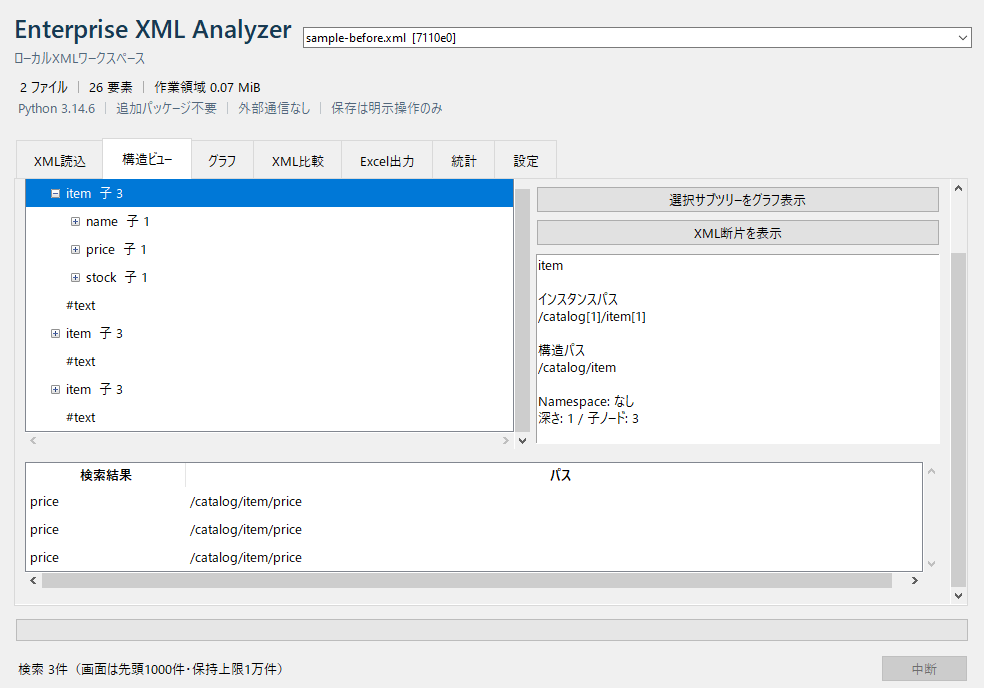
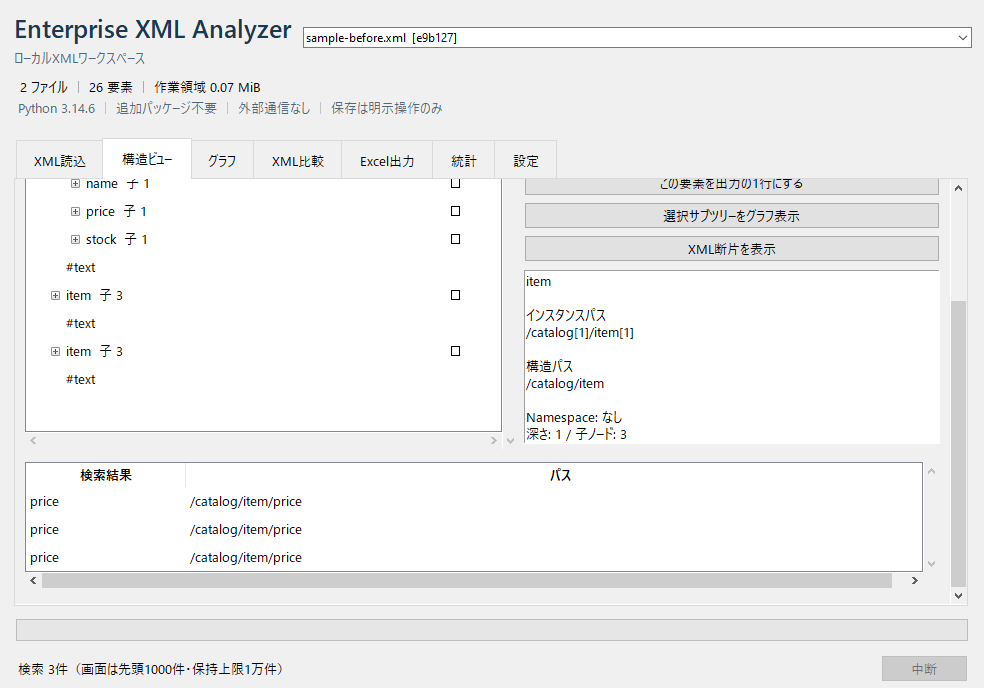
Document save overview and checked header ranges with Windows screenshots

Changed region(s): [[0.0, 0.2442, 1.0, 0.641], [0.4268, 0.0305, 0.4573, 0.061]]

diff --git a/docs/python-user-guide/procedure-guide.html b/docs/python-user-guide/procedure-guide.html
@@ -15,7 +15,7 @@
   <a class="skip-link" href="#main-content">本文へ移動</a>
   <button id="toc-toggle" class="toc-toggle" type="button" aria-controls="sidebar" aria-expanded="false">☰ 目次</button>
   <aside id="sidebar" class="sidebar" aria-label="目次">
-    <div class="sidebar-header"><p class="eyebrow">Windows Desktop · v2.4</p><p class="sidebar-title">Enterprise XML<br>Analyzer</p><p class="sidebar-subtitle">スクリーンショット付き操作手順書</p></div>
+    <div class="sidebar-header"><p class="eyebrow">Windows Desktop · v2.5</p><p class="sidebar-title">Enterprise XML<br>Analyzer</p><p class="sidebar-subtitle">スクリーンショット付き操作手順書</p></div>
     <nav><ol class="toc-list">
       <li><a href="#overview">01 目的と対象</a></li><li><a href="#prepare">02 展開したフォルダの確認</a></li><li><a href="#workflow">03 全体の流れ・練習用XML</a></li><li><a href="#launch">04 アプリを起動する</a></li><li><a href="#load">05 XMLを読み込む</a></li><li><a href="#tree">06 構造・検索を確認する</a></li><li><a href="#graph">07 グラフで見る</a></li><li><a href="#compare">08 2つのXMLを比較する</a></li><li><a href="#export">09 Excelへ出力する</a></li><li><a href="#save">10 設定と作業を保存・終了する</a></li><li><a href="#verification">11 完了確認</a></li><li><a href="#troubleshooting">12 困ったとき</a></li>
     </ol></nav>
@@ -23,7 +23,7 @@
   </aside>
   <div id="sidebar-overlay" class="sidebar-overlay" aria-hidden="true"></div>
   <main id="main-content" class="main-content">
-    <header class="hero"><div class="hero-content"><p class="eyebrow">User Guide · Python 3.14.6 Bundled</p><h1>Enterprise XML Analyzer<br><span>Windows版 操作手順書</span></h1><p class="hero-lead">ZIPを展開したところから、XMLの確認・比較・Excel保存まで。画面と同じ練習用データを使って、一通りの操作を試せます。</p><div class="hero-badges"><span>対象: Windows x64配布版</span><span>Pythonの追加インストール不要</span><span>更新: 2026/10/28</span></div></div></header>
+    <header class="hero"><div class="hero-content"><p class="eyebrow">User Guide · Python 3.14.6 Bundled</p><h1>Enterprise XML Analyzer<br><span>Windows版 操作手順書</span></h1><p class="hero-lead">ZIPを展開したところから、XMLの確認・比較・Excel保存まで。画面と同じ練習用データを使って、一通りの操作を試せます。</p><div class="hero-badges"><span>対象: Windows x64配布版</span><span>Pythonの追加インストール不要</span><span>更新: 2026/10/29</span></div></div></header>
 
     <section id="overview" class="content-section"><div class="section-heading"><span class="section-number">01</span><div><p class="section-kicker">Overview</p><h2>目的と対象</h2></div></div>
       <p>このアプリは、XMLファイルの中身を階層やグラフで確認し、2つのXMLの違いを調べ、必要な項目をExcel・CSVへ取り出すためのデスクトップアプリです。XML原本を直接編集する機能はありません。</p>
@@ -89,6 +89,8 @@
 
     <section id="export" class="content-section"><div class="section-heading"><span class="section-number">09</span><div><p class="section-kicker">Excel Export</p><h2>すべての要素をExcelへ出力する</h2></div></div>
       <h3 id="simple-export">簡単出力：外側のノードを1行にする</h3>
+      <p>v2.5では、プレビュー時に「保存前チェック」も表示します。「作成シート」で全シートの行数・列数、「1行の単位」で実際の要素パスと件数、「ヘッダーの適用範囲」でXML別の適用先を確認してください。未確認の状態や設定変更後に保存を押した場合は先にこの結果を表示します。内容を見てから、もう一度「全要素をExcel保存」を押して保存先を選びます。</p>
+      <p class="small-note">シートの行数は見出し行を除きます。列・行のシート分割と、長い値・表示項目の継続行も反映します。横持ちの項目数には元ファイル・ID等3列を含まず、各シートの列数には含みます。縦持ちの中身は11列です。値のプレビューは先頭だけですが、保存前チェックの件数は全件から集計します。</p>
       <ol class="numbered-steps"><li><div><strong>XMLを読み込み、「Excel出力」を開きます。</strong><p>最上部の「簡単出力モード（すべての要素・属性）」を使います。読み込み済みの全XMLが対象です。詳細出力の列・条件・XML選択では絞りません。</p></div></li><li><div><strong>「表の形式」で「横持ち」または「縦持ち」を選びます。</strong><p>横持ちでは、文書ルート直下の最も外側にあるデータ要素が1行です。指定したヘッダー範囲は除外します。縦持ちはノード・項目名・値を行で並べる一覧です。</p></div></li><li><div><strong>必要なら、下の手順でヘッダー範囲を指定します。</strong><p>ヘッダーはロット情報・測定条件などのXML内の情報です。指定要素と配下全体をヘッダー専用シートへ分離し、IDでデータと対応づけます。指定しなければ、各外側要素をデータとして出力します。</p></div></li><li><div><strong>「全要素プレビュー」で確認し、「全要素をExcel保存」を押します。</strong><p>「表示する内容」で中身・ヘッダー情報・紐づけ・共通データを切り替えられます。表示は先頭20行・30列・各80文字までですが、保存は全件です。画面下部の完了表示を確認し、保存先のExcelを開きます。</p></div></li></ol>
       <div class="table-wrap"><table><caption>横持ちの1行の単位</caption><thead><tr><th>XMLの形</th><th>1行になる範囲</th></tr></thead><tbody><tr><td><code>root → record、record</code></td><td>recordごとに計2行。配下の項目が列になります。</td></tr><tr><td><code>root → header、record、record</code> でheaderをヘッダー指定</td><td>recordごとに計2行。headerは専用シートへ分離します。</td></tr><tr><td><code>root → data → record、record</code></td><td>最も外側のdataで1行。内側のrecordは番号付きの列に展開します。</td></tr><tr><td>子要素を持たないroot</td><td>root自身で1行。</td></tr></tbody></table></div>
       <p>商品練習用XML2ファイルは、ヘッダー指定なしで横持ち6行・5項目（元ファイル等の列を除く）、縦持ち30行です。文書ルートの直接テキスト2件は共通データに保存し、全26要素・6属性を保持します。</p>
@@ -97,10 +99,16 @@
       <h3 id="header-export">ヘッダー範囲を指定し、データと紐づける</h3>
       <p>次の練習XMLは共通ヘッダー1件と、データA・Bそれぞれのヘッダーを持ちます。商品練習から切り替える場合は、必要な作業を保存したうえで、「設定」→「すべての作業データと設定を削除」で読み込み済みXMLを消し、このXMLを1つだけ読み込んでください。</p>
       <div class="download-row"><a class="download-link" href="samples/sample-with-headers.xml" download="sample-with-headers.xml">ヘッダー付き練習XMLを保存</a></div>
-      <ol class="numbered-steps"><li><div><strong>「ヘッダー範囲」へ、次の2行を入力します。</strong><p>1行につき1つの要素パスです。指定した要素とその配下全体を対象にします。構造ビューで対象を選んでから「構造ビューの選択要素を追加」でも入力できます。複数の範囲を指定でき、重なる範囲は外側にまとめます。</p></div></li></ol>
+      <figure class="screenshot"><button class="shot-zoom" type="button" aria-label="構造ツリーのヘッダーチェックを拡大"><img src="images/20-header-tree.png" alt="構造ツリーのヘッダー欄で共通headerとrecord内headerをチェックし、指定要素は青、配下は薄い青と配下の文字で区別した画面。" width="984" height="688" loading="lazy"></button><figcaption>ツリーで選択｜チェックは同じ要素パスの全出現に適用します。右側の「ヘッダーの適用範囲を確認」で出力画面へ戻れます。</figcaption></figure>
+      <ol class="numbered-steps"><li><div><strong>「構造ツリーでヘッダーを選択」を押し、headerのチェック欄をクリックします。</strong><p>共通の <code>/root/header</code> と、record内の <code>/root/record/header</code> をチェックします。要素を選んでSpace、または右側のチェックボックスでも切り替えられます。同じ要素パスの全出現に適用するため、record内のheaderを1つ選ぶと、データA・Bの両方が対象になります。指定要素は青、配下は薄い青と「配下」の文字で表示されます。後から展開した要素にも反映します。</p><p>「ヘッダーの適用範囲を確認」で出力画面へ戻ります。パスを入力する場合は、従来どおり次の2行を「ヘッダー範囲」に指定できます。複数の範囲が重なった場合は外側にまとめます。親の指定に含まれる子だけを除外することはできないため、範囲を外す場合は親のチェックを解除します。</p></div></li></ol>
       <div class="code-block"><pre><code>/root/header
 /root/record/header</code></pre></div>
       <figure class="screenshot"><button class="shot-zoom" type="button" aria-label="ヘッダー範囲の指定画面を拡大"><img src="images/15-header-ranges.png" alt="ヘッダー範囲にroot/headerとroot/record/headerの2行を指定した画面。設定の保存と読込もできる。" width="984" height="688" loading="lazy"></button><figcaption>ヘッダー範囲｜要素パスを指定します。名前空間付きXMLでは構造ビューの選択要素から追加すると、正しいパスを入力できます。</figcaption></figure>
+      <div class="table-wrap"><table><caption>保存前チェックの切替欄で確認する内容</caption><thead><tr><th>表示</th><th>この練習での確認</th></tr></thead><tbody><tr><td>作成シート</td><td>横持ちは9シート、縦持ちは8シート。中身・ヘッダー・紐づけ・共通データ等の各行数と列数を確認します。</td></tr><tr><td>1行の単位</td><td><code>/root/record</code> が2件。横持ちでは2行となり、縦持ちでは同じ基準でデータIDを付け、配下の値を8行へ展開します。</td></tr><tr><td>ヘッダーの適用範囲</td><td>共通headerは該当1件・適用データ2件、record内headerは該当2件・適用データ2件です。対応数はそれぞれ2行、合計4行です。</td></tr></tbody></table></div>
+      <p>「該当件数」は定義したパスに一致する要素数、「分離ヘッダー件数」は重複範囲を統合したあとの件数です。同じデータに複数ヘッダーが属すると、適用データ件数より対応数が多くなります。「親範囲に統合」は二重保存を防いだ指定、「該当なし」はそのXMLには対象がない指定です。全XMLで見つからない範囲がある場合は、エラーを確認して指定を修正してください。</p>
+      <figure class="screenshot"><button class="shot-zoom" type="button" aria-label="保存前チェックのシート一覧を拡大"><img src="images/21-save-overview.png" alt="保存前チェックでデータ2件、中身2行、項目4列とID等3列、作成9シートを表示し、シートごとの行数と列数を並べた画面。" width="984" height="688" loading="lazy"></button><figcaption>作成シート｜保存前に全シートの名前・データ行数・列数を確認できます。表の縦スクロールで残りのシートも表示します。</figcaption></figure>
+      <figure class="screenshot"><button class="shot-zoom" type="button" aria-label="保存前チェックの1行の単位を拡大"><img src="images/23-record-unit.png" alt="1行の単位の一覧に元XML、root/recordの基準パス、データ件数2件を表示した画面。" width="984" height="688" loading="lazy"></button><figcaption>1行の単位｜実際の要素パスと件数を確認します。横持ちではrecord1件が1行です。</figcaption></figure>
+      <figure class="screenshot"><button class="shot-zoom" type="button" aria-label="XMLごとのヘッダー適用範囲を拡大"><img src="images/22-header-coverage.png" alt="共通headerは該当1件、record内headerは該当2件で、それぞれ適用データ2件と対応数2を表示した画面。" width="984" height="688" loading="lazy"></button><figcaption>ヘッダーの適用範囲｜XMLごとの該当・分離件数、共通／ノード内の適用範囲、適用データ件数と対応数を確認します。</figcaption></figure>
       <ol class="numbered-steps" start="2"><li><div><strong>表の形式を選び、「全要素プレビュー」を押します。</strong><p>このXMLはデータ2件、ヘッダー3件です。横持ちは2行・4項目、縦持ちは8行です。ヘッダーは両形式とも7項目行の縦持ち一覧として専用シートに保存します。</p></div></li><li><div><strong>「表示する内容」を切り替えて確認します。</strong><p>「ヘッダー情報」でロットLOT-001や単位Cを確認し、「紐づけ」で4行の対応を確認します。画面のIDは短縮表示ですが、Excelには完全なIDを保存します。</p></div></li><li><div><strong>「全要素をExcel保存」で保存します。</strong><p>「中身のデータ」「ヘッダー」「紐づけ」などのシートを確認します。「簡単出力設定を保存」で形式と範囲をJSONへ保存でき、次回は「簡単出力設定を読込」で再利用できます。設定JSONにXMLの値は含みません。</p></div></li></ol>
       <figure class="screenshot"><button class="shot-zoom" type="button" aria-label="ヘッダーを分離した横持ちデータを拡大"><img src="images/16-header-wide.png" alt="ヘッダーを除いた横持ちのrecord2件。ID、温度、圧力などの4項目を列に展開する。" width="984" height="688" loading="lazy"></button><figcaption>中身のデータ・横持ち｜データAとBの2行に、温度20／25、圧力5／6などを保存します。</figcaption></figure>
       <figure class="screenshot"><button class="shot-zoom" type="button" aria-label="ヘッダーを分離した縦持ちデータを拡大"><img src="images/19-header-long.png" alt="ヘッダーを除いた縦持ちデータのプレビュー。record2件の値を8行にする。" width="984" height="688" loading="lazy"></button><figcaption>中身のデータ・縦持ち｜同じデータIDで、ノード内の項目をまとめて扱えます。</figcaption></figure>
@@ -157,13 +165,14 @@
         <details><summary>ヘッダー範囲が見つからない／HEADER_PATH・HEADER_NOT_FOUND</summary><div><p>要素の絶対パスを1行ずつ指定します。例は <code>/root/header</code> です。<code>[1]</code>、属性、ワイルドカードは指定しません。名前空間付きXMLは構造ビューで要素を選び「構造ビューの選択要素を追加」を使ってください。範囲を変えたら再プレビューします。</p></div></details>
         <details><summary>列を編集したのに結果へ反映されない</summary><div><p>表の該当行を選んで編集し、「列へ反映」を押してから再度プレビューします。プレビューを実行する前の表示は自動更新されません。</p></div></details>
         <details><summary>「XLSX保存」など下のボタンが見えない</summary><div><p>各画面の右端の縦スクロールで下へ移動します。詳細出力の中には別の縦横スクロールもあります。画面幅が狭い場合は上部の「画面」で切り替えます。</p></div></details>
+        <details><summary>「全要素をExcel保存」を押しても保存先の画面が出ない</summary><div><p>初回や設定変更後は、先に保存前チェックを作成します。画面に表示された1行の単位・件数・作成シート・ヘッダーの適用先を確認して、もう一度「全要素をExcel保存」を押してください。処理中の場合は完了を待ちます。エラーが出た場合は、ヘッダー範囲の入力内容を確認してください。</p></div></details>
         <details><summary>保存できない／disk I/O error／処理が遅い</summary><div><p>空き容量、保存先への書き込み権限、出力ファイルをExcelで開いたままにしていないかを確認します。大きなXMLは一時作業領域も使用します。共有フォルダで失敗する場合は、許可されたローカルフォルダへの保存を試し、会社の担当者へ権限を確認してください。</p></div></details>
         <details><summary>全データ削除・終了に時間がかかる</summary><div><p>大量データではSQLiteの整理に時間がかかります。中断・終了操作を連打せず待ってください。100万要素後の削除で約1分かかった検証例があります。</p></div></details>
       </div>
       <div class="callout info"><div class="callout-icon" aria-hidden="true">i</div><div><h3>解決しない場合</h3><p>配布担当者へ、Windowsの種類、アプリの版、対象ファイル名、操作、表示メッセージを伝えてください。「設定」→「技術ログをJSON保存」も利用できます。XMLの実データや作業ファイルを送る場合は、送付先と内容を会社のルールに従って確認してください。</p></div></div>
       <p class="small-note">配布担当者向け: <a href="https://github.com/rsakamoto-0824/enterprise-xml-analyzer/actions">GitHubのビルド一覧</a>はアクセス権を持つ利用者のみ閲覧できます。Actionsの配布物は保存期限があるため、期限切れの場合は担当者へ再配布を依頼してください。</p>
     </section>
-    <footer class="page-footer"><p>Enterprise XML Analyzer · Windows版ユーザー手順書 · v2.4</p><p>更新: 2026/10/28 · 画面は架空の練習用データを使用</p></footer>
+    <footer class="page-footer"><p>Enterprise XML Analyzer · Windows版ユーザー手順書 · v2.5</p><p>更新: 2026/10/29 · 画面は架空の練習用データを使用</p></footer>
   </main>
   <button id="back-to-top" class="back-to-top" type="button" aria-label="ページ上部へ戻る"><span aria-hidden="true">↑</span> トップへ戻る</button>
   <dialog id="image-viewer" aria-labelledby="image-viewer-title"><div class="viewer-bar"><p id="image-viewer-title">画面の拡大表示</p><button id="close-viewer" type="button">閉じる（Esc）</button></div><img id="viewer-image" alt=""><p class="viewer-note">横幅が足りない場合は画像の下の横スクロールで確認できます。</p></dialog>

diff --git a/docs/python-test-report.md b/docs/python-test-report.md
@@ -151,3 +151,17 @@ Mac / CPython 3.14.6 / Tk 9.0.4で65件の自動検証を実行し、64件成功
 [Windows Server 2022 / CPython 3.14.6（cd22bfc）](https://github.com/rsakamoto-0824/enterprise-xml-analyzer/actions/runs/40681699386)で65件すべて、同梱EXE、1/10/100/500MiB、1001001要素、10万件学習表、新しいヘッダー付き出力が成功しました。20000データ・20001ヘッダーは横持ち5.24秒、縦持ち7.04秒で保存しました。XML読込3.29秒は別測定です。測定プロセス全体の累積Peak Working Setは65,224,704バイトで、出力単独のメモリ量ではありません。共有CIでの合成データ単回測定のため、実データの処理時間・上限を保証しません。記録は `validation/python-header-windows-performance.json` と `validation/python-header-windows-selftest.json` です。Windows実画面19枚を手順書へ反映しました。
 
 HTML手順書を1440×1000・1280×900のChromiumで表示し、19画像・目次12箇所・ヘッダー付きXMLの保存と元ファイル一致・画像拡大とEsc・横方向のはみ出しがないことを確認しました。HTML単体版も19画像と練習XMLを埋め込み、外部CSS・JavaScript・画像に依存せず表示できることを確認しています。
+
+## v2.5.0 保存前チェックとツリーのヘッダー選択
+
+2026年10月29日追加。保存前に、実際のデータ基準パス・件数・中身の行数・列数と全シートの名前・行数・列数を表示します。構造ツリーではヘッダーのチェック列・Space・右側のチェックボックスで範囲を切り替え、指定要素と配下を文字と色で区別します。XMLごとの一致数、統合後のヘッダー数、適用範囲、重複なしの適用データ件数と対応数を確認できます。外側ノード1件＝1行と、保存する値・シートの構成は維持します。
+
+Mac / CPython 3.14.6 / Tk 9.0.4で73件を実行し、72件成功・Windows専用ドロップ1件をスキップしました。追加テストでは実際のOOXMLから全シート名・行数・列数を読み、保存前チェックと一致することを確認しています。長い値・40000文字の名前空間・行分割・16401項目の列分割、ヘッダーだけのXML、重複範囲の統合、一部XMLにない範囲、複数ヘッダーが同じデータに適用される場合の件数を含みます。GUIではマウスのチェック欄、Spaceと同じ切替処理、展開後の色分け、名前空間、処理中の編集禁止、形式変更後の再確認、従来の640×480以上のリサイズ等を確認しました。同梱ランタイム向けの通信禁止自己検証も成功しました。
+
+代表例の横持ち9シート・縦持ち8シートを独立したopenpyxlで再読込し、保存前チェックの全シート名・行数・列数と一致しました。元XMLの全20値の多重集合、共通／ノード内ヘッダーの対応、先頭ゼロ・20桁ID・数式文字列・空白の保持も確認しています。ZIP・OOXML・リレーション・コンテンツタイプは正常で、数式・セルエラー・外部リンク・VBAは0件です。全17シートを1シート1ページの確認用PDFにして目視しました。これはExcel本体の印刷改ページの検証ではありません。記録は `validation/python-preview-export-validation.json` です。Microsoft Excel本体での再保存・再オープンと、会社のWindows 11 / Server 2019での受入確認は未実施です。
+
+Macで2万データ・20001ヘッダー・40000対応の保存前チェックを単回測定し、横持ち4.875秒、縦持ち5.925秒でした。横持ちは中身20000行・全シート合計100024行・9シート、縦持ちは中身40000行・合計120022行・8シートです。合成データの単回測定であり、実データやWindowsでの時間を保証しません。記録は `validation/python-preview-performance.json` です。
+
+[Windowsの全検証（ae43d3d）](https://github.com/rsakamoto-0824/enterprise-xml-analyzer/actions/runs/40834833995)で73件すべて、同梱EXEの通信禁止自己検証、1/10/100/500MiB・1001001要素・10万件学習表・2万件のヘッダー付き出力が成功しました。2万データ・20001ヘッダーの保存は横持ち5.553秒、縦持ち7.278秒でした。保存前チェックの時間とは別です。記録は `validation/python-preview-windows-performance.json` と `validation/python-preview-windows-selftest.json` です。[列幅を調整したWindows版（e971bb0）](https://github.com/rsakamoto-0824/enterprise-xml-analyzer/actions/runs/40836106370)でも全件と同梱EXEが成功しました。会社の実機とMicrosoft Excel本体での未検証範囲は上記のとおりです。
+
+[Windows実画面23枚（3c094e9）](https://github.com/rsakamoto-0824/enterprise-xml-analyzer/actions/runs/40851136477)を手順書へ反映しました。PC幅1440／1280のChromiumで23画像・目次12箇所・全リンク先・横方向のはみ出しがないこと、新しいツリー画面の拡大とEsc、練習XMLの保存と原本一致を確認しました。HTML単体版は全23画像・3つの練習XMLを埋め込み、外部CSS／JavaScriptを参照しないこと、画像の表示・拡大・練習XMLの保存を確認しました。

diff --git a/docs/python-design.md b/docs/python-design.md
@@ -88,3 +88,13 @@ XML文字列はTkの文字表示へ渡し、HTMLとして実行しません。DT
 一時DBにデータ一覧・項目・値・ヘッダー群・共通値を保持し、両形式とも逐次読み出します。スコープ索引を使った2つの結合を統合し、共通ヘッダーとノード内ヘッダーの関連を生成します。全レコードや全リンクはPythonのリストへ蓄積しません。安全上限と成功時だけの保存先置換は継続します。
 
 GUIは中身のデータ・ヘッダー情報・紐づけ・共通データのプレビューを切り替えられ、IDは画面だけ短縮します。範囲の変更やファイル変更で古いプレビューを消し、処理中は範囲入力も無効にします。簡単出力専用の設定JSON（種別・版・形式・範囲のみ、最大1MiB）を保存／再読込でき、詳細抽出用JSONとは分離します。JSONの不正・未対応・上限超過時は現在の設定を保持します。
+
+## 保存前チェックとツリーのヘッダー選択（v2.5.0）
+
+保存前チェックは既存の一時SQLite計画を使用します。データ基準パスを記録してXMLごとに件数を集計し、ヘッダー定義に一致した要素数と、重なりを統合した実際のヘッダー数を分けます。共通範囲はファイル内の全データへ、ノード内範囲は該当データIDへ適用し、重複なしの適用データ件数と対応表の行数を区別します。一部XMLにない範囲は0件、外側ヘッダーに含まれる範囲は「親範囲に統合」と表示します。
+
+横持ちの中身は件数と列ブロックから計算し、空欄を含む全セルを走査しません。項目一覧・縦持ち・ヘッダー・共通値・データ一覧・出典等は保存と共通の行生成器で数え、長い値・表示項目の継続行を反映します。対応表は索引付き結合による集計を用います。writerと同じ標準のシート行数・列数で物理シートへ分割し、全体200万行・512シートの安全上限も確認します。プレビューの先頭20行とは独立した全件集計です。1行の基準パス一覧だけは先頭100種類に表示を限定し、上限到達時は明示します。
+
+保存時は形式・ヘッダー範囲・読み込みファイルIDが確認結果と一致することを検査します。未確認ならまず結果を画面へ表示し、利用者が内容を確認して再度保存操作を行います。保存そのものは既存エンジンで再生成し、既存ファイルの原子的な置換を維持します。作業読込・ファイル変更・形式変更・範囲変更で確認結果を無効にします。
+
+ツリーはヘッダー専用のチェック列を持ち、マウスとSpaceで操作できます。手入力・JSON読込と同じ範囲定義を使用し、選択要素と配下を文字と背景色で区別します。同一パスの全出現が対象で、位置指定へは変更しません。表示済みノードの情報だけを使って色を更新し、展開時や検索ジャンプで追加したノードにも適用します。処理中はチェックを含む編集を禁止します。XML値を含む設定項目や実行時依存は追加しません。

diff --git a/README.md b/README.md
@@ -18,9 +18,11 @@ py -3.14 run.py
 
 ## 使い方
 
-### 簡単出力モード（外側ノード単位・ヘッダー分離、v2.4）
+### 簡単出力モード（外側ノード単位・ヘッダー分離、v2.5）
 
 XMLを読み込み、「Excel出力」の最上部で **横持ち** または **縦持ち** を選びます。**全要素プレビュー** で確認し、**全要素をExcel保存** を押します。読み込み済みの全XMLが対象で、詳細出力の列・条件・XML選択では絞り込みません。
+
+**保存前チェック**には、中身の行数・列数・作成シート数を表示します。切替欄で「作成シート」の全シート名と行数・列数、「1行の単位」の実際の要素パスと件数、「ヘッダーの適用範囲」のXML別の件数を確認できます。シートの行数は見出し行を除き、Excel上限によるシート分割と長い表示項目の継続行を含みます。横持ちの項目数と、元ファイル・ID等を含む各シートの列数は区別します。設定が未確認の場合や変更後に保存を押した場合は、まず確認結果を表示するので、内容を見てから再度保存を押します。
 
 | 形式 | 中身のデータの形 |
 |---|---|
@@ -30,6 +32,8 @@ XMLを読み込み、「Excel出力」の最上部で **横持ち** または **
 例えば `<root><header>共通情報</header><record>データA</record><record>データB</record></root>` で `/root/header` をヘッダーに指定すると、横持ちはrecordごとの2行です。子要素のないXMLでは文書ルート自身を1行にします。ルート直下にさらにコンテナがある場合は、そのコンテナが1行となり、内側の繰り返しは列に展開されます。
 
 **ヘッダー範囲**には要素の絶対パスを1行ずつ指定します。指定した要素と配下全体を「ヘッダー」シートへ分離します。「構造ビュー」で対象要素を選び、「構造ビューの選択要素を追加」でも指定できます。範囲を重ねて指定した場合は、外側の範囲に統合して二重出力を防ぎます。どのXMLにも見つからない範囲は、エラーとして保存を止めます。名前空間付きの要素は選択要素からの追加を利用してください。
+
+**構造ツリーの「ヘッダー」欄をクリックするか、要素を選んでSpaceを押しても指定できます。** チェックした要素は青、その配下は薄い青と「配下」の表示になります。同じ要素パスの全出現・全XMLに適用し、後から展開した要素にも反映します。色だけでなくチェック文字でも状態を区別します。「ヘッダーの適用範囲を確認」で、XMLごとの該当件数・分離ヘッダー件数・共通／ノード内の適用範囲・適用データ件数・対応数を確認できます。1データに同じ範囲のヘッダーが複数ある場合、適用データ件数と対応数は異なります。親範囲に統合された指定や、一部XMLに該当しない指定も表示します。
 
 ```text
 /root/header

diff --git a/docs/python-windows.md b/docs/python-windows.md
@@ -10,6 +10,10 @@
 
 ヘッダーは要素パスを1行ずつ指定し、指定要素と配下全体を専用の「ヘッダー」シートへ分離できます。構造ビューの選択要素から追加もできます。データIDとヘッダーIDを「紐づけ」シートで対応づけるため、複数の共通情報やノード内の条件を、対応するデータへ結合できます。プレビューの「表示する内容」で各表を確認してください。「簡単出力設定を保存／読込」で範囲と形式を再利用できます。
 
+v2.5からは「構造ツリーでヘッダーを選択」で構造ビューへ移り、ツリーのヘッダー欄をクリック、または要素を選んでSpaceで切り替えられます。同じ要素パスの全出現を対象に、指定要素は青、配下は薄い青で表示します。「ヘッダーの適用範囲を確認」でXMLごとの該当件数・分離件数・共通／ノード内の適用範囲・適用データ件数・対応数を確認します。パス入力や設定JSONとの併用もできます。
+
+保存前チェックでは、実際の要素パスとデータ件数、中身の行数・列数、全シート名と各シートの行数・列数を確認します。行数は見出しを除き、行・列のシート分割や長い表示項目の分割を反映します。設定変更後など、未確認の状態で「全要素をExcel保存」を押した場合は先に確認結果を表示します。内容を確認して、同じ保存ボタンをもう一度押してください。
+
 商品練習用2ファイルではヘッダー指定なしで横持ち6行・5項目、縦持ち30行です。文書ルートの値・属性は「共通データ」へ保持し、全要素を取り出します。別のヘッダー付き練習XMLでは、ヘッダー範囲 `/root/header` と `/root/record/header` を指定し、データ2件・ヘッダー3件・対応4行を確認できます。詳しい形式と制限はREADME・同梱HTML手順書を参照してください。
 
 回帰・分類向けに1件1行の表を作る場合は、その下の「機械学習向け出力」を使います。「構造を確認・プレビュー」で繰り返し要素の候補を確認・変更し、必要なら目的変数を選び、「学習データをExcel保存」で保存します。練習用XML2ファイルでは `/catalog/item` を1行とし、6件・4項目を出力します。型を全件で判定し、数値・真偽値は対応するセル型、欠損は空欄です。選んだ要素の外側は対象に含みません。

diff --git a/issues.md b/issues.md
@@ -27,3 +27,7 @@
 - [x] 横持ちを文書ルート直下の最も外側のデータノード1件＝1行へ変更
 - [x] 複数ヘッダー範囲、共通／ノード内スコープ、専用シートとデータID・ヘッダーIDの対応表
 - [x] ヘッダー等のプレビュー切替と簡単出力設定JSONの保存／読込
+
+- [x] 保存前に実際のデータ基準パス・件数・列数・物理シート一覧を全件から確認
+- [x] ツリーのチェックと配下の色分け、XML別のヘッダー件数・適用範囲・適用データ件数・対応数の表示
+- [x] 設定変更後の再確認と、シート行数・列数の実出力との照合
